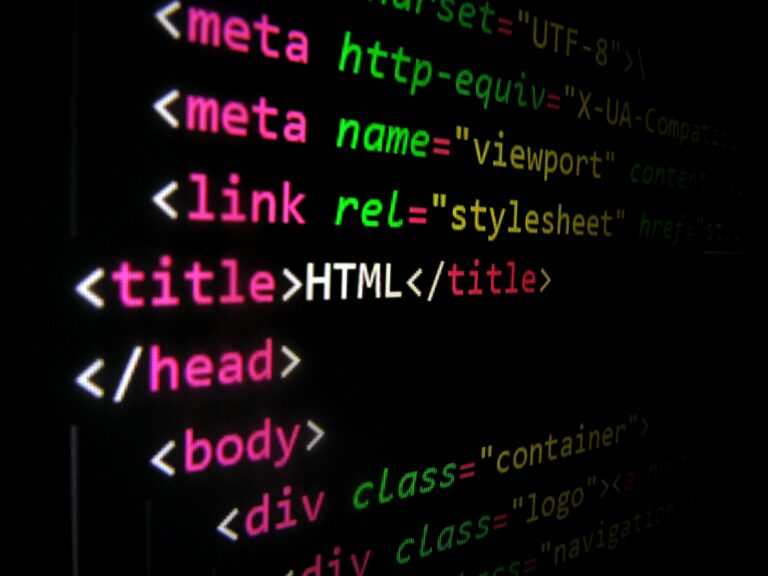
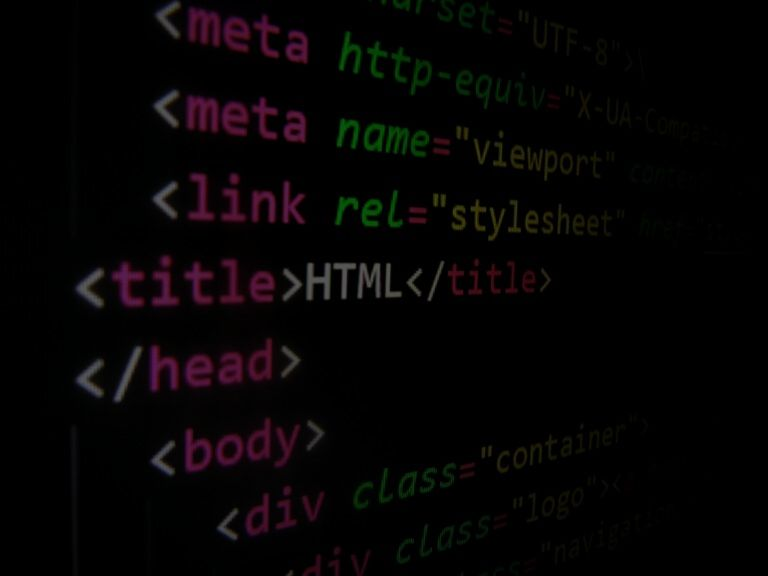
Support background images on SlideLayout

diff --git a/site/src/jsMain/kotlin/dev/bitspittle/kotlinconf25/kobweb/components/layouts/SlideLayout.kt b/site/src/jsMain/kotlin/dev/bitspittle/kotlinconf25/kobweb/components/layouts/SlideLayout.kt
@@ -9,6 +9,7 @@ import com.varabyte.kobweb.compose.css.*
 import com.varabyte.kobweb.compose.css.TransitionTimingFunction
 import com.varabyte.kobweb.compose.css.functions.LinearGradient
 import com.varabyte.kobweb.compose.css.functions.linearGradient
+import com.varabyte.kobweb.compose.css.functions.url
 import com.varabyte.kobweb.compose.dom.ref
 import com.varabyte.kobweb.compose.foundation.layout.Box
 import com.varabyte.kobweb.compose.ui.Alignment
@@ -20,6 +21,7 @@ import com.varabyte.kobweb.compose.ui.toAttrs
 import com.varabyte.kobweb.core.AppGlobals
 import com.varabyte.kobweb.core.PageContext
 import com.varabyte.kobweb.core.data.add
+import com.varabyte.kobweb.core.data.get
 import com.varabyte.kobweb.core.data.getValue
 import com.varabyte.kobweb.core.init.InitRoute
 import com.varabyte.kobweb.core.init.InitRouteContext
@@ -85,7 +87,6 @@ val SlideBackgroundStyle = CssStyle.base {
         )
 }
 
-
 val SlideLayoutStyle = CssStyle.base {
     Modifier
         .size(TARGET_WIDTH.px, TARGET_HEIGHT.px)
@@ -113,6 +114,8 @@ private enum class SlidingHorizDirection {
     // Necessary to prevent one frame flicker as a new slide comes in
     HIDING;
 }
+
+class HeaderBackground(val path: String)
 
 interface EventArgs
 
@@ -175,6 +178,7 @@ fun SlideLayout(ctx: PageContext, content: @Composable () -> Unit) {
         )
     }
 
+    var backgroundOpacity by remember(ctx.route.path) { mutableStateOf(0f) }
     var scale by remember { mutableStateOf(calculateScale()) }
     var slidingDirection by remember { mutableStateOf<SlidingHorizDirection?>(null) }
     var targetSlide by remember { mutableStateOf<String?>(null) }
@@ -385,6 +389,25 @@ fun SlideLayout(ctx: PageContext, content: @Composable () -> Unit) {
     )
 
     Box(SlideBackgroundStyle.toModifier(), contentAlignment = Alignment.Center, ref = ref { containerElement = it }) {
+        ctx.data.get<HeaderBackground>()?.let { headerBackground ->
+            Box(
+                Modifier.fillMaxSize()
+                    .backgroundImage(url(headerBackground.path))
+                    .backgroundSize(BackgroundSize.Cover)
+                    .backgroundRepeat(BackgroundRepeat.NoRepeat)
+                    .backgroundPosition(BackgroundPosition.of(CSSPosition.Center))
+                    .opacity(backgroundOpacity)
+                    .transition(
+                        Transition.of(
+                            "opacity",
+                            duration = AnimSpeeds.Quick.toCssUnit(),
+                            timingFunction = AnimationTimingFunction.Ease
+                        )
+                    ),
+                ref = ref { window.invokeLater { backgroundOpacity = 1f } }
+            )
+        }
+
         Box(SlideLayoutStyle.toModifier().setVariable(SlideScaleVar, scale)) {
             Box(
                 Modifier.fillMaxSize()
@@ -398,6 +421,7 @@ fun SlideLayout(ctx: PageContext, content: @Composable () -> Unit) {
                             .setVariable(SlideHorizToOpacityVar, 0f)
                             .setVariable(SlideHorizFromTranslatePercentVar, 0.percent)
                             .setVariable(SlideHorizToTranslatePercentVar, (-100).percent)
+                            .onAnimationStart { backgroundOpacity = 0f }
                             .onAnimationEnd {
                                 (ctx.data.getValue<SlideEvents>().onNavigated as EventImpl).invoke(DirectionArgs(forward = true))
                                 ctx.router.tryRoutingTo(targetSlide!!)
@@ -413,6 +437,7 @@ fun SlideLayout(ctx: PageContext, content: @Composable () -> Unit) {
                             .setVariable(SlideHorizToOpacityVar, 0f)
                             .setVariable(SlideHorizFromTranslatePercentVar, 0.percent)
                             .setVariable(SlideHorizToTranslatePercentVar, 100.percent)
+                            .onAnimationStart { backgroundOpacity = 0f }
                             .onAnimationEnd {
                                 (ctx.data.getValue<SlideEvents>().onNavigated as EventImpl).invoke(DirectionArgs(forward = false))
                                 ctx.router.tryRoutingTo(targetSlide!!)

diff --git a/site/src/jsMain/kotlin/dev/bitspittle/kotlinconf25/kobweb/components/layouts/HeaderSlideLayout.kt b/site/src/jsMain/kotlin/dev/bitspittle/kotlinconf25/kobweb/components/layouts/HeaderSlideLayout.kt
@@ -6,14 +6,22 @@ import com.varabyte.kobweb.compose.css.Width
 import com.varabyte.kobweb.compose.foundation.layout.Box
 import com.varabyte.kobweb.compose.ui.Alignment
 import com.varabyte.kobweb.compose.ui.Modifier
+import com.varabyte.kobweb.compose.ui.graphics.Colors
 import com.varabyte.kobweb.compose.ui.modifiers.fillMaxSize
 import com.varabyte.kobweb.compose.ui.modifiers.padding
 import com.varabyte.kobweb.compose.ui.modifiers.textAlign
+import com.varabyte.kobweb.compose.ui.modifiers.textShadow
 import com.varabyte.kobweb.compose.ui.modifiers.width
 import com.varabyte.kobweb.compose.ui.toAttrs
 import com.varabyte.kobweb.core.layout.Layout
 import org.jetbrains.compose.web.css.cssRem
+import org.jetbrains.compose.web.css.px
 import org.jetbrains.compose.web.dom.H1
+
+private fun Modifier.fullTextShadow() =
+    listOf(-1 to -1, -1 to 1, 1 to -1, 1 to 1).fold(this) { modifier, (x, y) ->
+        modifier.textShadow(x.px, y.px, 20.px, Colors.Black)
+    }
 
 @Layout(".components.layouts.SlideLayout")
 @Composable
@@ -22,7 +30,7 @@ fun HeaderSlideLayout(content: @Composable () -> Unit) {
         Modifier.fillMaxSize().textAlign(TextAlign.Center).padding(5.6.cssRem),
         contentAlignment = Alignment.TopCenter
     ) {
-        H1(Modifier.width(Width.MaxContent).toAttrs()) {
+        H1(Modifier.width(Width.MaxContent).fullTextShadow().toAttrs()) {
             content()
         }
     }

diff --git a/site/src/jsMain/kotlin/dev/bitspittle/kotlinconf25/kobweb/pages/Showcase.kt b/site/src/jsMain/kotlin/dev/bitspittle/kotlinconf25/kobweb/pages/Showcase.kt
@@ -16,7 +16,7 @@ import com.varabyte.kobweb.core.init.InitRouteContext
 import com.varabyte.kobweb.core.layout.Layout
 import com.varabyte.kobweb.silk.components.text.SpanText
 import dev.bitspittle.kotlinconf25.kobweb.components.layouts.SlideSection
-import dev.bitspittle.kotlinconf25.kobweb.components.layouts.TitledSlideData
+import dev.bitspittle.kotlinconf25.kobweb.components.layouts.SlideTitle
 import dev.bitspittle.kotlinconf25.kobweb.components.layouts.step
 import dev.bitspittle.kotlinconf25.kobweb.components.widgets.code.CodeBlock
 import dev.bitspittle.kotlinconf25.kobweb.components.widgets.list.Bullets
@@ -24,7 +24,7 @@ import org.jetbrains.compose.web.dom.H1
 
 @InitRoute
 fun initCodeExamplePage(ctx: InitRouteContext) {
-    ctx.data.add(TitledSlideData("TODO: Showcase"))
+    ctx.data.add(SlideTitle("TODO: Showcase"))
 }
 
 @Page

diff --git a/site/src/jsMain/kotlin/dev/bitspittle/kotlinconf25/kobweb/pages/cmp/HtmlVsWasm1.kt b/site/src/jsMain/kotlin/dev/bitspittle/kotlinconf25/kobweb/pages/cmp/HtmlVsWasm1.kt
@@ -5,10 +5,19 @@ import com.varabyte.kobweb.compose.ui.Modifier
 import com.varabyte.kobweb.compose.ui.graphics.Colors
 import com.varabyte.kobweb.compose.ui.modifiers.color
 import com.varabyte.kobweb.core.Page
+import com.varabyte.kobweb.core.data.add
+import com.varabyte.kobweb.core.init.InitRoute
+import com.varabyte.kobweb.core.init.InitRouteContext
 import com.varabyte.kobweb.core.layout.Layout
 import com.varabyte.kobweb.silk.components.text.SpanText
+import dev.bitspittle.kotlinconf25.kobweb.components.layouts.HeaderBackground
 import org.jetbrains.compose.web.dom.Br
 import org.jetbrains.compose.web.dom.Text
+
+@InitRoute
+fun initHtmlVsWasm1Page(ctx: InitRouteContext) {
+    ctx.data.add(HeaderBackground("/images/html-code.jpg"))
+}
 
 @Page
 @Composable

diff --git a/site/src/jsMain/kotlin/dev/bitspittle/kotlinconf25/kobweb/components/layouts/TitledSlideLayout.kt b/site/src/jsMain/kotlin/dev/bitspittle/kotlinconf25/kobweb/components/layouts/TitledSlideLayout.kt
@@ -12,7 +12,7 @@ import com.varabyte.kobweb.core.layout.Layout
 import org.jetbrains.compose.web.dom.H2
 import org.jetbrains.compose.web.dom.Text
 
-class TitledSlideData(
+class SlideTitle(
     val renderTitle: @Composable () -> Unit,
 ) {
     constructor(title: String) : this({ Text(title) })
@@ -23,7 +23,7 @@ class TitledSlideData(
 fun TitledSlideLayout(ctx: PageContext, content: @Composable () -> Unit) {
     Column(Modifier.fillMaxSize(), horizontalAlignment = Alignment.CenterHorizontally) {
         H2 {
-            ctx.data.getValue<TitledSlideData>().renderTitle.invoke()
+            ctx.data.getValue<SlideTitle>().renderTitle.invoke()
         }
 
         Box(Modifier.fillMaxSize(), contentAlignment = Alignment.Center) {

diff --git a/site/src/jsMain/kotlin/dev/bitspittle/kotlinconf25/kobweb/pages/cmp/CodeExample.kt b/site/src/jsMain/kotlin/dev/bitspittle/kotlinconf25/kobweb/pages/cmp/CodeExample.kt
@@ -6,12 +6,12 @@ import com.varabyte.kobweb.core.data.add
 import com.varabyte.kobweb.core.init.InitRoute
 import com.varabyte.kobweb.core.init.InitRouteContext
 import com.varabyte.kobweb.core.layout.Layout
-import dev.bitspittle.kotlinconf25.kobweb.components.layouts.TitledSlideData
+import dev.bitspittle.kotlinconf25.kobweb.components.layouts.SlideTitle
 import dev.bitspittle.kotlinconf25.kobweb.components.widgets.code.CodeBlock
 
 @InitRoute
 fun initCodeExamplePage(ctx: InitRouteContext) {
-    ctx.data.add(TitledSlideData("Compose Code Example"))
+    ctx.data.add(SlideTitle("Compose Code Example"))
 }
 
 @Page
